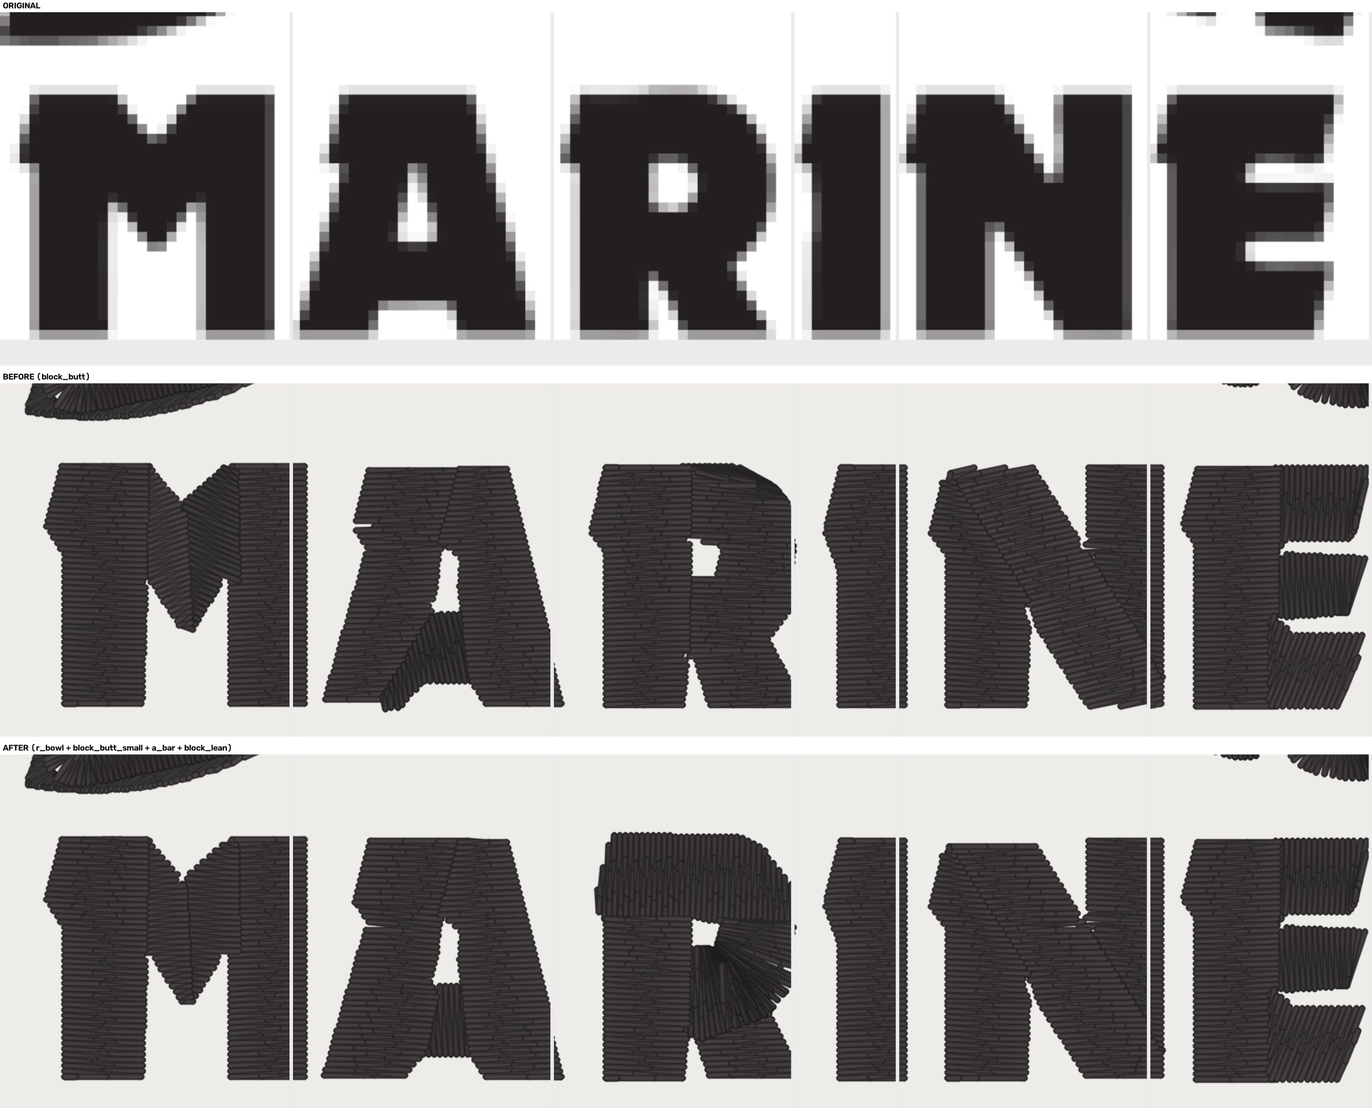
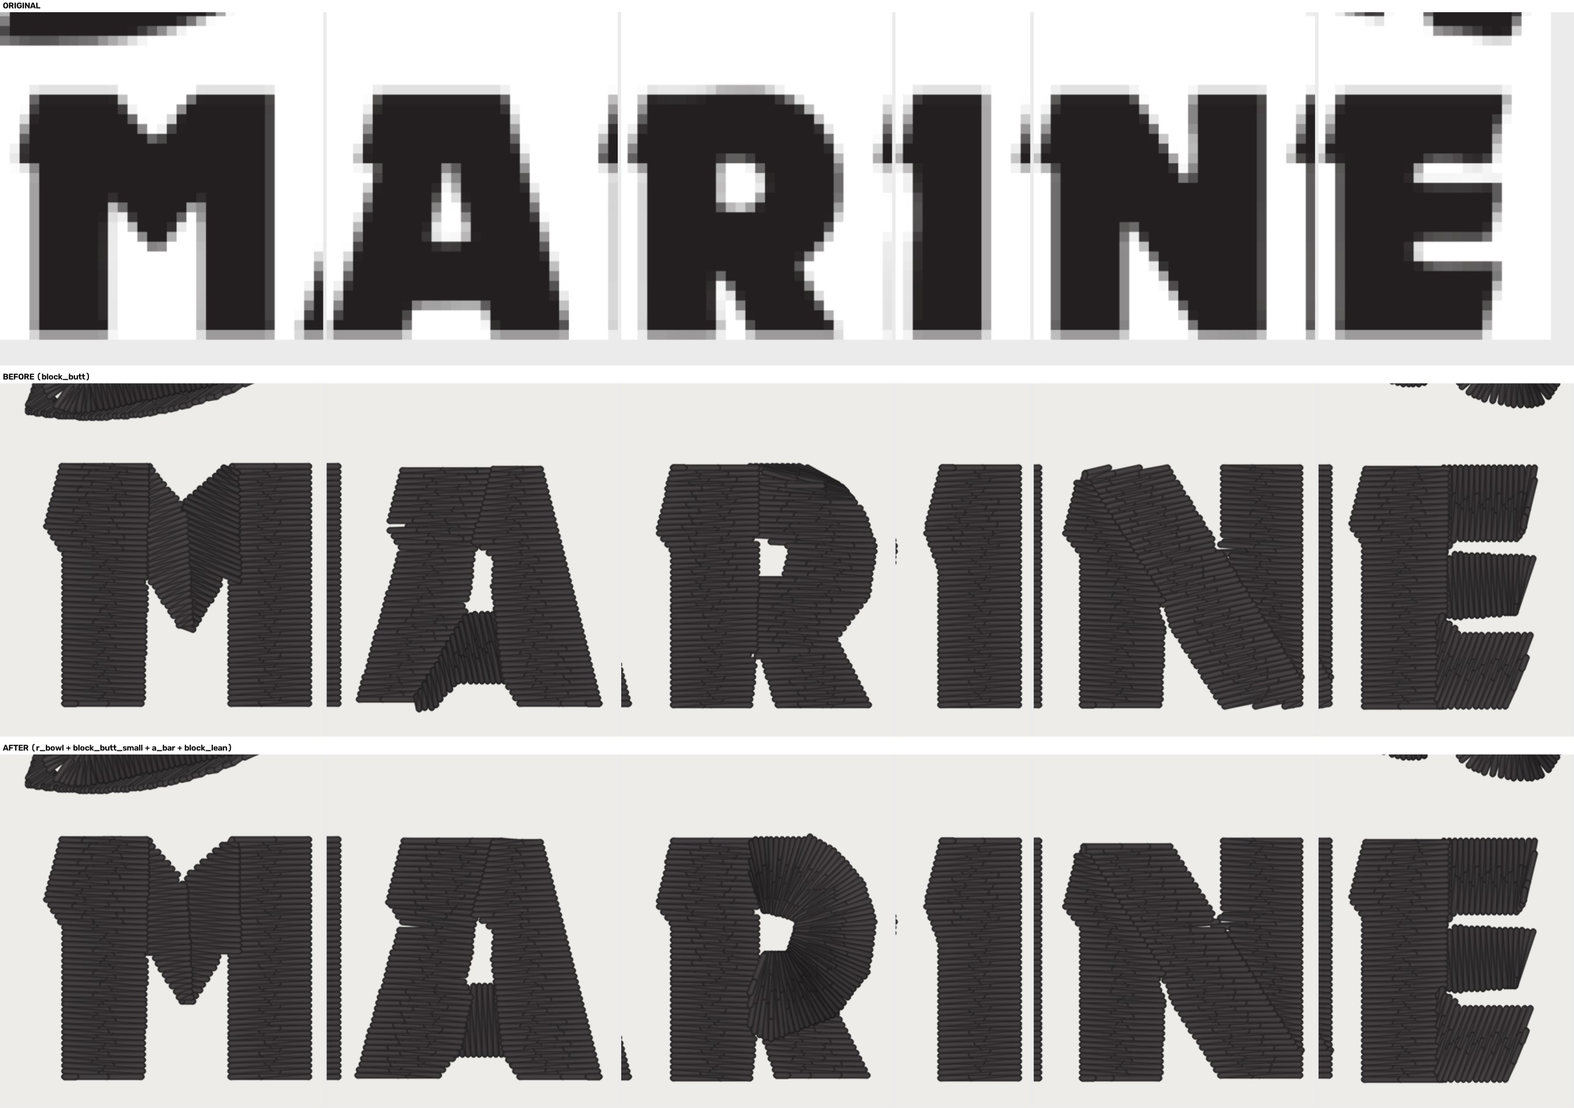
MARINE match: docs and pictures for the rebuilt R, three-flag sweep, r_bowl sweep, row 14
Claude-Session: https://claude.ai/code/session_01SfRndMtc9sRAyyeCcjRH3n

diff --git a/docs/marine-pro-construction-2026-11-18.md b/docs/marine-pro-construction-2026-11-18.md
@@ -72,7 +72,7 @@ changes (ROADMAP gate 1). OFF is byte-identical to `lettering_columns_block_butt
 
 | flag | what it does | pro rule (section 1) |
 |---|---|---|
-| `lettering_columns_r_bowl` | on a block letter with one counter and a stem-head butt (R): cut a slab across the top (stem top + bowl top, upright crosses), the stem below it, the leg (level crosses), and sew the bowl as ONE column whose crosses start normal to each edge of the counter and pivot on its corners (`outline_cut._bowl_cuts`, `_bowl_column_normal`) | 2, 4 |
+| `lettering_columns_r_bowl` | on a block letter with one counter and a stem-head butt (R): the stem stays block_butt's (level, to the top, no slab), the leg is its own level column, and the rest sews as ONE bowl column on rays from the counter's centre at even angular steps (about 250 deg here, his 134-176 with a slab), each cross starting `BOWL_INNER_INSET_MM` = 0.5 mm off the counter's edge, which is his geometry (his bowl cross 4.4 mm over a 5.3 mm wall; his counter 9.85 mm2 against the art's 6.63) and not the pull (`outline_cut._bowl_cuts`, `_bowl_column`) | 2, 4 |
 | `lettering_columns_block_butt_small` | block_butt's heavy-stroke gate 3.5 -> 3.0 mm: Becker MARINE at 76.5-79.8 mm measures 3.46 (E), so block_butt did nothing to its E, A and N there. No other committed job has a letter over 1.7 mm | 6 |
 | `lettering_columns_a_bar` | a flat-topped block A: the lane's level cut at the counter's bottom (left foot + bar as one fanned piece) becomes the leg's inner edge, so both legs run uncut and the bar is its own column of upright crosses (`_a_bar_cuts`) | 5 |
 | `lettering_columns_block_lean` | on a heavy block letter the satin convention's lean cap (30 deg) is 50 deg where that lets the house (level) cross through: the M's V diagonals and the N's diagonal cross level, as his do. An arm's near-upright cross keeps today's fade (`column_lean.cross_direction`) | 3 |
@@ -81,20 +81,31 @@ changes (ROADMAP gate 1). OFF is byte-identical to `lettering_columns_block_butt
 
 | design | base | r_bowl | block_butt_small | a_bar | block_lean | all four |
 |---|---|---|---|---|---|---|
-| Becker hat large 101.9 | 15,820 / 18 / 53 / 508.6 | 15,919 / 18 / 53 / 500.4 | = base | 15,800 / 18 / 53 / 508.6 | 15,796 / 18 / 53 / 508.6 | 15,856 / 18 / 53 / 504.6 |
-| Becker LC large 95.7 | 14,291 / 13 / 30 / 236.8 | 14,331 / 13 / 30 / 243.8 | = base | 14,296 / 14 / 32 / 244.6 | = base | 14,336 / 14 / 32 / 251.7 |
-| Becker hat small 76.5 | 10,165 / 9 / 35 / 304.4 | 10,071 / 9 / 35 / 304.4 | 9,999 / 10 / 36 / 309.2 | 10,144 / 9 / 35 / 304.4 | 10,152 / 8 / 34 / 303.6 | 9,871 / 9 / 35 / 308.4 |
-| Becker chest small 76.5 | 10,039 / 7 / 33 / 300.6 | 9,890 / 7 / 33 / 300.6 | 9,877 / 8 / 34 / 305.8 | 10,018 / 7 / 33 / 300.6 | 10,071 / 7 / 33 / 300.6 | 9,739 / 8 / 34 / 305.8 |
-| Becker beanie 79.8 | 13,619 / 12 / 41 / 376.8 | 13,575 / 11 / 40 / 375.3 | 13,473 / 13 / 43 / 380.5 | 13,589 / 12 / 42 / 369.4 | 13,612 / 12 / 41 / 376.8 | 13,392 / 12 / 43 / 371.6 |
-| Becker 114 (hat large art) | 19,621 / 17 / 67 / 641.4 | 19,616 / 17 / 67 / 641.4 | = base | 19,710 / 17 / 67 / 640.6 | 19,559 / 18 / 68 / 642.8 | 19,643 / 18 / 68 / 642.0 |
+| Becker hat large 101.9 | 15,820 / 18 / 53 / 508.6 | 15,858 / 20 / 55 / 518.2 | = base | 15,800 / 18 / 53 / 508.6 | 15,796 / 18 / 53 / 508.6 | 15,820 / 19 / 54 / 516.0 |
+| Becker LC large 95.7 | 14,291 / 13 / 30 / 236.8 | 14,340 / 14 / 31 / 243.1 | = base | 14,296 / 14 / 32 / 244.6 | = base | 14,345 / 15 / 33 / 251.0 |
+| Becker hat small 76.5 | 10,165 / 9 / 35 / 304.4 | 10,086 / 9 / 35 / 304.4 | 9,999 / 10 / 36 / 309.2 | 10,144 / 9 / 35 / 304.4 | 10,152 / 8 / 34 / 303.6 | 9,886 / 9 / 35 / 308.4 |
+| Becker chest small 76.5 | 10,039 / 7 / 33 / 300.6 | 9,948 / 7 / 33 / 300.6 | 9,877 / 8 / 34 / 305.8 | 10,018 / 7 / 33 / 300.6 | 10,071 / 7 / 33 / 300.6 | 9,797 / 8 / 34 / 305.8 |
+| Becker beanie 79.8 | 13,619 / 12 / 41 / 376.8 | 13,518 / 12 / 41 / 380.5 | 13,473 / 13 / 43 / 380.5 | 13,589 / 12 / 42 / 369.4 | 13,612 / 12 / 41 / 376.8 | 13,335 / 13 / 44 / 376.8 |
+| Becker 114 (hat large art) | 19,621 / 17 / 67 / 641.4 | 19,578 / 18 / 68 / 654.1 | = base | 19,710 / 17 / 67 / 640.6 | 19,559 / 18 / 68 / 642.8 | 19,524 / 19 / 69 / 654.7 |
 | MFab hat 30 mm | 2,996 / 10 / 17 / 92.1 | = | = | = | = | = |
 
-**What got worse (all small).** Trims: +1 at LC large (a_bar), hat small and chest small and beanie (block_butt_small), +1 at 114
-mm (block_lean); the worst single row is one extra trim and 2 more jumps. Needle-up travel: +15 mm at LC large (all four),
-+4-5 mm at the 76.5/79.8 placements. Preflight (`run_preflight`, 38 metrics, grade and score unchanged everywhere): bare artwork,
-cover, coverage, uncovered, legibility and element-drop figures do not move on any of the 7 designs x 6 arms; the only
-figures that move are `satin_short_fraction` (+0.001 to +0.003, two rows -0.001), `coverage_p95` +0.01 at hat small and
-`trims_per_1000` +0.1 at five rows. No bare-fabric, cover or coverage figure moved the wrong way.
+**What got worse (all small).** Trims: +2 at hat large (`r_bowl`; +1 with all four), +1 at LC large, 114 mm and the
+small placements for one flag or another; the worst single row is two extra trims and 2 more jumps. Needle-up travel: `r_bowl`
+adds 9.6 mm at hat large, 12.7 at 114 mm, 6.3 at LC large and 3.7 at the beanie; all four add +15 mm at LC large and +4-5
+mm at 76.5/79.8. Preflight (`run_preflight`, 38 metrics, grade and score unchanged everywhere): bare artwork, cover,
+coverage, uncovered, legibility and element-drop figures do not move on any of the 7 designs x 7 arms; the only figures that
+move are `satin_short_fraction` (+0.001 to +0.004, two rows -0.001), `coverage_p95` +0.01 at hat small and `trims_per_1000`
++0.1 at six rows. No bare-fabric, cover or coverage figure moved the wrong way.
+
+**The three without `r_bowl`** (`block_butt_small` + `a_bar` + `block_lean`, one `flag_sweep --flag a,b,c`, the director's
+flip question; pictures in `docs/renders/marine-match-2026-11-18/three-flags/`): 44 runs, 6 Becker movers, 38 identical, 0
+errors. Stitches / trims / jumps / needle-up mm, base to three: hat large 15,820/18/53/508.6 to 15,776/18/53/508.6; LC large
+14,291/13/30/236.8 to 14,296/14/32/244.6; hat small 10,165/9/35/304.4 to 9,965/9/35/308.4; chest small 10,039/7/33/300.6 to
+9,888/8/34/305.8; beanie 13,619/12/41/376.8 to 13,436/13/44/373.1; 114 mm 19,621/17/67/641.4 to 19,648/18/68/642.0; MFab hat
+30 mm unchanged. Only `satin_short_fraction` (+0.001 to +0.002) and `coverage_p95` (+0.01, hat small) move.
+
+**R counters, thread-free mm2** (acceptance number; art 6.63 at 101.9): block_butt -> `r_bowl` (the pro's): hat large 4.59 -> 6.04
+(9.85); LC large 4.57 -> 6.29 (8.06); hat small 2.2 -> 3.47 (4.49); chest small 2.2 -> 4.05 (4.49); beanie 2.15 -> 3.88 (4.44).
 
 ### Related tests with the four flags forced ON (with block_butt; measured before #1684 landed, the 11 below are the flags' own)
 
@@ -114,7 +125,7 @@ forced ON: 23 fail; the 11 added by these flags, none a bare-fabric, travel-guar
 **One to read:** `mfab105_band_letters` is MFab's 105 mm outline-band letters, heavy enough (>= 3.5 mm) for `block_lean`'s gate when
 the lane is driven directly. The pipeline does not send them through `lean_columns` (MFab hat is byte-identical under the
 flag), but the gate is stroke width alone, so a heavy-stroked design that does reach `lean_columns` would take it.
-New tests: `tests/test_r_bowl.py` (7), `tests/test_marine_match.py` (10), on `testdata/marine102_*_letter(s).json`.
+New tests: `tests/test_r_bowl.py` (8), `tests/test_marine_match.py` (10), on `testdata/marine102_*_letter(s).json`.
 
 ## 4. Per letter: matches the pro / differs / cannot match
 
@@ -125,7 +136,7 @@ Pictures: `docs/renders/marine-match-2026-11-18/<placement>_word.jpg` (ORIGINAL 
 |---|---|---|
 | **M** | **matches** the V's cross direction; differs in the cuts | the V's diagonals cross level (0 +/- 3 deg, his 0) under `block_lean`. Differs: his V is four 3-5 mm pieces whose crosses run 7.4-7.7 mm, plus a slab-and-left-diagonal piece fanning 31 deg; ours is two diagonals of 11.7-11.9 mm cut at the stems' edges, crosses 2.8-3.6 mm median, and no slab |
 | **A** | **matches** the bar and the legs; differs at the apex | `a_bar`: bar 3.9 mm span, crosses 87 deg (his 86), 4.9 mm long (his 4.6-4.7), butting both legs; legs level and uncut (18.3 and 18.6 mm; his 13.1 and 19.4). Differs: his bar tucks 1.5 mm under each leg (ours butts, overlap 0.5-1.0), his right leg fans 37 deg into a two-piece cap (we have none, apex family OFF) |
-| **R** | **matches** the construction, **cannot match the counter** | slab upright (89 deg, his 78-90), stem level, leg level, bowl one column (30 crosses, 19.5 mm; his 101 crosses, 31.9 mm: his slab ends at the counter's right edge and the bowl takes the top-right corner, ours takes it with the slab). Counter 3.2 mm2 at 101.9 (his 9.85, art 6.63, block_butt alone 4.59) and 1.7 at 76.5 (his 4.5): normal crosses push the pull into the counter on all four sides where block_butt's level crosses push only into two. **Needs the pull's counter hold-off (gate 1): sew-out row 14.** Also: the bowl's outer edge steps 0.4 mm where horizontal crosses clip the arc |
+| **R** | **matches** the construction; counter at or above block_butt's, short of his | `r_bowl`: stem level to the top (no slab), level leg, ONE bowl column on rays from the counter's centre at even angular steps (his 101 crosses over 31.9 mm; ours about 100 over 33 mm), crosses 4.8 mm median from 0.5 mm off the counter's edge, fan about 250 deg (his 134-176 because his slab takes the top). Counter 6.04 at 101.9 (his 9.85, art 6.63, block_butt 4.59) and 3.47 at 76.5 (his 4.49, block_butt 2.2). The 0.5 mm inset is read from his bowl and his counter, not from a sew-out: row 14 asks the cloth to confirm it. The old fan the reader faulted pivoted at the counter's corner and crossed its top; this pivots round its centre and keeps every cross off it |
 | **I** | unchanged, differs | one 17.2 mm column; his has a 5 mm slab piece and 3-4 junction patches |
 | **N** | **matches** the diagonal's cross; differs at the head | diagonal level (-1.6 to -1.4 deg), 19.5 mm; his fans 78 deg from the slab at the head and sews level at the foot. The slab is not built |
 | **E** | **matches** the arms at 76.5-79.8 now; differs at the corners | `block_butt_small`: stem and three butted arms at 76.5 and 79.8 (before: a 24 mm folded fan and a 23.6 mm fan). Differs: his top arm is one 12.2 mm piece over the stem's top, his lower-left corner three small fans (we butt square) |

diff --git a/docs/renders/marine-match-2026-11-18/flag-sweeps/r_bowl.md b/docs/renders/marine-match-2026-11-18/flag-sweeps/r_bowl.md
@@ -1,16 +1,14 @@
 # flag sweep: `extra.lettering_columns_r_bowl` OFF=false vs ON=true
 
-Context `--set`: `{"extra.lettering_columns_block_butt": true}` (both arms)
-
 44 runs (18 tripwire placements, 26 corpus fixtures): **6 moved**, 38 unchanged, 0 errored.
 
 | run | moved | md5 off | md5 on | stitches | trims | jumps | needle-up mm | colours |
 |---|---|---|---|---|---|---|---|---|
-| becker_hat_large | yes | `b7d9faaea4` | `3d91a34a75` | 15820 -> 15919 (+99) | 18 | 53 | 508.6 -> 500.4 (-8.2) | 2 |
-| becker_lc_large | yes | `71b6c32947` | `6211752ddc` | 14291 -> 14331 (+40) | 13 | 30 | 236.8 -> 243.8 (+7) | 2 |
-| becker_hat_small | yes | `59d453bd12` | `99e76b794a` | 10165 -> 10071 (-94) | 9 | 35 | 304.4 | 2 |
-| becker_chest_small | yes | `d3a1d181de` | `90376aa63f` | 10039 -> 9890 (-149) | 7 | 33 | 300.6 | 2 |
-| becker_beanie | yes | `d0c32a6ea5` | `5f34525fb2` | 13619 -> 13575 (-44) | 12 -> 11 (-1) | 41 -> 40 (-1) | 376.8 -> 375.3 (-1.5) | 3 |
+| becker_hat_large | yes | `b7d9faaea4` | `daaf11ccee` | 15820 -> 15858 (+38) | 18 -> 20 (+2) | 53 -> 55 (+2) | 508.6 -> 518.2 (+9.6) | 2 |
+| becker_lc_large | yes | `71b6c32947` | `100b9e05bb` | 14291 -> 14340 (+49) | 13 -> 14 (+1) | 30 -> 31 (+1) | 236.8 -> 243.1 (+6.3) | 2 |
+| becker_hat_small | yes | `59d453bd12` | `65c94fe43b` | 10165 -> 10086 (-79) | 9 | 35 | 304.4 | 2 |
+| becker_chest_small | yes | `d3a1d181de` | `149babecf9` | 10039 -> 9948 (-91) | 7 | 33 | 300.6 | 2 |
+| becker_beanie | yes | `d0c32a6ea5` | `a256b6f879` | 13619 -> 13518 (-101) | 12 | 41 | 376.8 -> 380.5 (+3.7) | 3 |
 | gaulke_roofing_hat | no | `e8938c6e21` | `e8938c6e21` | 6618 | 30 | 59 | 341.0 | 1 |
 | gaulke_roofing_lc | no | `1e1208439d` | `1e1208439d` | 5379 | 23 | 50 | 219.6 | 1 |
 | gaulke_roofing_beanie | no | `eb7beca0da` | `eb7beca0da` | 7124 | 22 | 59 | 277.1 | 2 |
@@ -18,9 +16,9 @@ Context `--set`: `{"extra.lettering_columns_block_butt": true}` (both arms)
 | hotel_fremont_patch | no | `c5037db3a9` | `c5037db3a9` | 14165 | 19 | 82 | 398.6 | 4 |
 | mfab_hat | no | `5093d04371` | `5093d04371` | 20564 | 22 | 80 | 741.9 | 3 |
 | mfab_lc | no | `54ed7b8166` | `54ed7b8166` | 17570 | 17 | 60 | 504.9 | 3 |
-| precision_drone | no | `839ad27013` | `839ad27013` | 13966 | 93 | 196 | 1557.2 | 9 |
+| precision_drone | no | `02da7bf79d` | `02da7bf79d` | 13976 | 92 | 190 | 1459.0 | 8 |
 | tires_hat_3d | no | `f8ac955e9b` | `f8ac955e9b` | 4644 | 7 | 11 | 71.3 | 1 |
-| goldentee_hat | no | `7b6c3f8060` | `7b6c3f8060` | 10583 | 45 | 91 | 644.9 | 7 |
+| goldentee_hat | no | `17bde51eb6` | `17bde51eb6` | 9943 | 48 | 93 | 642.8 | 6 |
 | toat_machine_hat | no | `da817e2430` | `da817e2430` | 17100 | 18 | 45 | 267.9 | 2 |
 | toat_machine_beanie | no | `de337834a6` | `de337834a6` | 16862 | 16 | 45 | 323.6 | 3 |
 | toat_beanie | no | `55a54f4e50` | `55a54f4e50` | 17193 | 25 | 42 | 233.6 | 3 |
@@ -28,7 +26,7 @@ Context `--set`: `{"extra.lettering_columns_block_butt": true}` (both arms)
 | corpus:logo_alpha.png | no | `3647423156` | `3647423156` | 6391 | 3 | 19 | 174.7 | 5 |
 | corpus:logo_whitebg.png | no | `2663dc018b` | `2663dc018b` | 6917 | 3 | 22 | 207.1 | 6 |
 | corpus:ribbon_curve.png | no | `0942ad4f2f` | `0942ad4f2f` | 1020 | 0 | 3 | 0.0 | 1 |
-| corpus:photo/drone_render.png | no | `1c28933040` | `1c28933040` | 18417 | 97 | 239 | 2036.2 | 10 |
+| corpus:photo/drone_render.png | no | `e8da773f25` | `e8da773f25` | 18409 | 103 | 226 | 1839.4 | 9 |
 | corpus:photo/enthusiast_logo.png | no | `c1a09b9357` | `c1a09b9357` | 2469 | 8 | 35 | 117.8 | 2 |
 | corpus:photo/fur_ramp.png | no | `056940c0b9` | `056940c0b9` | 7240 | 3 | 17 | 153.9 | 5 |
 | corpus:photo/gradient_ramp_linear.png | no | `125c30256d` | `125c30256d` | 11054 | 1 | 14 | 128.5 | 5 |
@@ -43,10 +41,10 @@ Context `--set`: `{"extra.lettering_columns_block_butt": true}` (both arms)
 | corpus:photo/region_blobs.png | no | `fe55177a93` | `fe55177a93` | 19356 | 20 | 52 | 500.1 | 6 |
 | corpus:photo/repro_gradient_white_icon.png | no | `5fa820046e` | `5fa820046e` | 22930 | 10 | 41 | 409.7 | 5 |
 | corpus:photo/summit_badge.png | no | `5adcd66ba8` | `5adcd66ba8` | 28995 | 33 | 117 | 905.0 | 8 |
-| corpus:becker_marine_logo.png | yes | `d70dedab28` | `fb245bdf5d` | 11145 -> 11106 (-39) | 14 | 41 | 361.0 | 2 |
+| corpus:becker_marine_logo.png | yes | `d70dedab28` | `3d7c839f9c` | 11145 -> 11055 (-90) | 14 | 41 | 361.0 | 2 |
 | corpus:logo_script_tires.png | no | `8a54520c03` | `8a54520c03` | 2807 | 5 | 6 | 54.9 | 1 |
 | corpus:photo/logo_bridge_bar.jpg | no | `16fb49b80b` | `16fb49b80b` | 10599 | 15 | 30 | 217.6 | 4 |
 | corpus:photo/logo_gaulke_roofing.png | no | `f16139ca34` | `f16139ca34` | 4859 | 20 | 46 | 178.9 | 1 |
-| corpus:photo/logo_golden_tee.jpg | no | `9667030b93` | `9667030b93` | 11868 | 51 | 102 | 692.6 | 7 |
+| corpus:photo/logo_golden_tee.jpg | no | `f1820cca9d` | `f1820cca9d` | 10888 | 55 | 95 | 656.4 | 6 |
 | corpus:photo/logo_hotel_fremont.webp | no | `56d71b86b1` | `56d71b86b1` | 12175 | 28 | 111 | 363.4 | 4 |
-| corpus:photo/screenshot_phone_ui_golke.jpg | no | `45a8420d65` | `45a8420d65` | 10856 | 108 | 383 | 2446.4 | 6 |
+| corpus:photo/screenshot_phone_ui_golke.jpg | no | `aab2260471` | `aab2260471` | 10706 | 107 | 387 | 2549.8 | 6 |

diff --git a/docs/renders/marine-match-2026-11-18/three-flags/flag-sweep-three.md b/docs/renders/marine-match-2026-11-18/three-flags/flag-sweep-three.md
@@ -1,0 +1,50 @@
+# flag sweep: `extra.lettering_columns_block_butt_small,extra.lettering_columns_a_bar,extra.lettering_columns_block_lean` OFF=false vs ON=true
+
+44 runs (18 tripwire placements, 26 corpus fixtures): **6 moved**, 38 unchanged, 0 errored.
+
+| run | moved | md5 off | md5 on | stitches | trims | jumps | needle-up mm | colours |
+|---|---|---|---|---|---|---|---|---|
+| becker_hat_large | yes | `b7d9faaea4` | `094c893c33` | 15820 -> 15776 (-44) | 18 | 53 | 508.6 | 2 |
+| becker_lc_large | yes | `71b6c32947` | `0b449fc009` | 14291 -> 14296 (+5) | 13 -> 14 (+1) | 30 -> 32 (+2) | 236.8 -> 244.6 (+7.8) | 2 |
+| becker_hat_small | yes | `59d453bd12` | `0e6456bf2b` | 10165 -> 9965 (-200) | 9 | 35 | 304.4 -> 308.4 (+4) | 2 |
+| becker_chest_small | yes | `d3a1d181de` | `a99fa2f949` | 10039 -> 9888 (-151) | 7 -> 8 (+1) | 33 -> 34 (+1) | 300.6 -> 305.8 (+5.2) | 2 |
+| becker_beanie | yes | `d0c32a6ea5` | `8245a82a24` | 13619 -> 13436 (-183) | 12 -> 13 (+1) | 41 -> 44 (+3) | 376.8 -> 373.1 (-3.7) | 3 |
+| gaulke_roofing_hat | no | `e8938c6e21` | `e8938c6e21` | 6618 | 30 | 59 | 341.0 | 1 |
+| gaulke_roofing_lc | no | `1e1208439d` | `1e1208439d` | 5379 | 23 | 50 | 219.6 | 1 |
+| gaulke_roofing_beanie | no | `eb7beca0da` | `eb7beca0da` | 7124 | 22 | 59 | 277.1 | 2 |
+| hotel_fremont_hat | no | `8692d2d22e` | `8692d2d22e` | 15167 | 26 | 79 | 377.2 | 4 |
+| hotel_fremont_patch | no | `c5037db3a9` | `c5037db3a9` | 14165 | 19 | 82 | 398.6 | 4 |
+| mfab_hat | no | `5093d04371` | `5093d04371` | 20564 | 22 | 80 | 741.9 | 3 |
+| mfab_lc | no | `54ed7b8166` | `54ed7b8166` | 17570 | 17 | 60 | 504.9 | 3 |
+| precision_drone | no | `02da7bf79d` | `02da7bf79d` | 13976 | 92 | 190 | 1459.0 | 8 |
+| tires_hat_3d | no | `f8ac955e9b` | `f8ac955e9b` | 4644 | 7 | 11 | 71.3 | 1 |
+| goldentee_hat | no | `17bde51eb6` | `17bde51eb6` | 9943 | 48 | 93 | 642.8 | 6 |
+| toat_machine_hat | no | `da817e2430` | `da817e2430` | 17100 | 18 | 45 | 267.9 | 2 |
+| toat_machine_beanie | no | `de337834a6` | `de337834a6` | 16862 | 16 | 45 | 323.6 | 3 |
+| toat_beanie | no | `55a54f4e50` | `55a54f4e50` | 17193 | 25 | 42 | 233.6 | 3 |
+| corpus:bg_uncertain.png | no | `0c8bafd552` | `0c8bafd552` | 11790 | 3 | 15 | 122.4 | 2 |
+| corpus:logo_alpha.png | no | `3647423156` | `3647423156` | 6391 | 3 | 19 | 174.7 | 5 |
+| corpus:logo_whitebg.png | no | `2663dc018b` | `2663dc018b` | 6917 | 3 | 22 | 207.1 | 6 |
+| corpus:ribbon_curve.png | no | `0942ad4f2f` | `0942ad4f2f` | 1020 | 0 | 3 | 0.0 | 1 |
+| corpus:photo/drone_render.png | no | `e8da773f25` | `e8da773f25` | 18409 | 103 | 226 | 1839.4 | 9 |
+| corpus:photo/enthusiast_logo.png | no | `c1a09b9357` | `c1a09b9357` | 2469 | 8 | 35 | 117.8 | 2 |
+| corpus:photo/fur_ramp.png | no | `056940c0b9` | `056940c0b9` | 7240 | 3 | 17 | 153.9 | 5 |
+| corpus:photo/gradient_ramp_linear.png | no | `125c30256d` | `125c30256d` | 11054 | 1 | 14 | 128.5 | 5 |
+| corpus:photo/gradient_ramp_radial.png | no | `611e3b79b7` | `611e3b79b7` | 18721 | 1 | 15 | 112.7 | 5 |
+| corpus:photo/photo_chrome_specular.png | no | `f74a8aad81` | `f74a8aad81` | 36783 | 83 | 215 | 1852.2 | 6 |
+| corpus:photo/photo_dof_meadow.png | no | `bdfb3b8510` | `bdfb3b8510` | 22253 | 47 | 186 | 937.5 | 5 |
+| corpus:photo/photo_grass_macro.png | no | `f3d3be5c01` | `f3d3be5c01` | 4018 | 9 | 24 | 196.8 | 2 |
+| corpus:photo/photo_owl_pale.png | no | `b4bb7c04cb` | `b4bb7c04cb` | 24982 | 4 | 11 | 86.0 | 3 |
+| corpus:photo/photo_scene_stub.png | no | `abbce67b0f` | `abbce67b0f` | 22287 | 81 | 179 | 1515.5 | 5 |
+| corpus:photo/photo_subject_stub.png | no | `c9f3d27c51` | `c9f3d27c51` | 3187 | 0 | 4 | 2.8 | 1 |
+| corpus:photo/photo_sunset_backlit.png | no | `443ccf3131` | `443ccf3131` | 27336 | 106 | 409 | 1705.2 | 5 |
+| corpus:photo/region_blobs.png | no | `fe55177a93` | `fe55177a93` | 19356 | 20 | 52 | 500.1 | 6 |
+| corpus:photo/repro_gradient_white_icon.png | no | `5fa820046e` | `5fa820046e` | 22930 | 10 | 41 | 409.7 | 5 |
+| corpus:photo/summit_badge.png | no | `5adcd66ba8` | `5adcd66ba8` | 28995 | 33 | 117 | 905.0 | 8 |
+| corpus:becker_marine_logo.png | yes | `d70dedab28` | `3f275455c0` | 11145 -> 10970 (-175) | 14 | 41 -> 42 (+1) | 361.0 -> 359.5 (-1.5) | 2 |
+| corpus:logo_script_tires.png | no | `8a54520c03` | `8a54520c03` | 2807 | 5 | 6 | 54.9 | 1 |
+| corpus:photo/logo_bridge_bar.jpg | no | `16fb49b80b` | `16fb49b80b` | 10599 | 15 | 30 | 217.6 | 4 |
+| corpus:photo/logo_gaulke_roofing.png | no | `f16139ca34` | `f16139ca34` | 4859 | 20 | 46 | 178.9 | 1 |
+| corpus:photo/logo_golden_tee.jpg | no | `f1820cca9d` | `f1820cca9d` | 10888 | 55 | 95 | 656.4 | 6 |
+| corpus:photo/logo_hotel_fremont.webp | no | `56d71b86b1` | `56d71b86b1` | 12175 | 28 | 111 | 363.4 | 4 |
+| corpus:photo/screenshot_phone_ui_golke.jpg | no | `aab2260471` | `aab2260471` | 10706 | 107 | 387 | 2549.8 | 6 |

diff --git a/docs/sew-out-list-2026-11-18.md b/docs/sew-out-list-2026-11-18.md
@@ -201,20 +201,19 @@ other two.
 
 ### 14. Becker MARINE's R counter: how far to hold the bowl's crosses off the counter
 1. **Design, spot.** `becker_hat_large` 101.9 mm and the other four Becker placements (76.5-101.9 mm), the R of MARINE,
-   its counter at about 4 mm wide at 101.9 (art 6.63 mm2).
-2. **In doubt.** The satin pull on crosses that run square to the counter's edge. Thread-free counter area, mm2, measured
-   on bare renders (24 px/mm, 0.4 mm thread): art **6.63**, the professional's file **9.30** (9.85 by the 2026-11-18 reader,
-   `tools/marine_construct.py`), ours with `lettering_columns_block_butt` **4.59**, ours with `lettering_columns_r_bowl`
-   (crosses normal to every edge of the counter, the pro's construction) **3.2** at 101.9 mm and **1.7** at 76.5 mm
-   (art about 3.7 there, his 4.5). His counter is LARGER than the art's: he holds his crosses off it. Ours are pushed
-   into it by `Fabric.pull_comp_mm` = 0.4 on the rail that faces it (`digitizer_core/fabrics.py:47`).
-3. **Sew, look.** The R at 101.9 mm and at 76.5 mm, `block_butt` alone against `block_butt` + `r_bowl` (both OFF-by-default
-   flags, `docs/marine-pro-construction-2026-11-18.md`). Look: is the counter a clear hole of thread-free cloth, does the R
-   read as an R at arm's length, does the bowl's outer edge (crosses clipped by the arc, 0.4 mm steps) show.
-4. **Unlocks.** If the counter fills at 76.5 mm: a counter hold-off for the bowl's inner rail (an inset of about 0.3 mm,
-   the number his counter implies, to be read off the cloth), which `counter_clear_mm` (`columns.py`, default 0) already
-   carries for small print. If it reads fine: `r_bowl` can flip on its construction alone.
-5. **Source.** `docs/marine-pro-construction-2026-11-18.md` (this PR), the R rows of section 2 and of the per-letter report.
+   its counter about 4 mm wide at 101.9 (art 6.63 mm2).
+2. **In doubt.** `lettering_columns_r_bowl` starts every bowl cross `BOWL_INNER_INSET_MM` = **0.5 mm** off the counter's edge
+   (`outline_cut.py`). The number is read from the professional's file, not from cloth: his bowl cross is 4.4 mm over a 5.3 mm
+   wall and his counter 9.85 mm2 at 101.9 (art 6.63; 4.49 at 76.5). With no inset the crosses, pushed into the counter by
+   `Fabric.pull_comp_mm` = 0.4 (`digitizer_core/fabrics.py:47`), left 3.2 mm2 at 101.9 and 1.7 at 76.5; with 0.5 mm ours measure
+   6.04 / 3.47 (block_butt alone 4.59 / 2.2).
+3. **Sew, look.** The R at 101.9 and 76.5 mm: `block_butt` alone against `block_butt` + `r_bowl` (OFF by default,
+   `docs/marine-pro-construction-2026-11-18.md`). Look: is the counter a clear hole of bare cloth, does the R read as an R at
+   arm's length, does the thread ridge on the counter's edge show, does 0.5 mm leave a gap between the bowl's crosses and the
+   counter edge (a ring of bare cloth around the hole).
+4. **Unlocks.** If the counter reads closed or the ring shows: change the one constant (0.3-0.7 mm). If it reads fine:
+   `r_bowl` flips on its construction.
+5. **Source.** `docs/marine-pro-construction-2026-11-18.md` (#1686), the R rows of sections 3 and 4.
 
 ## What this list does not claim
 
